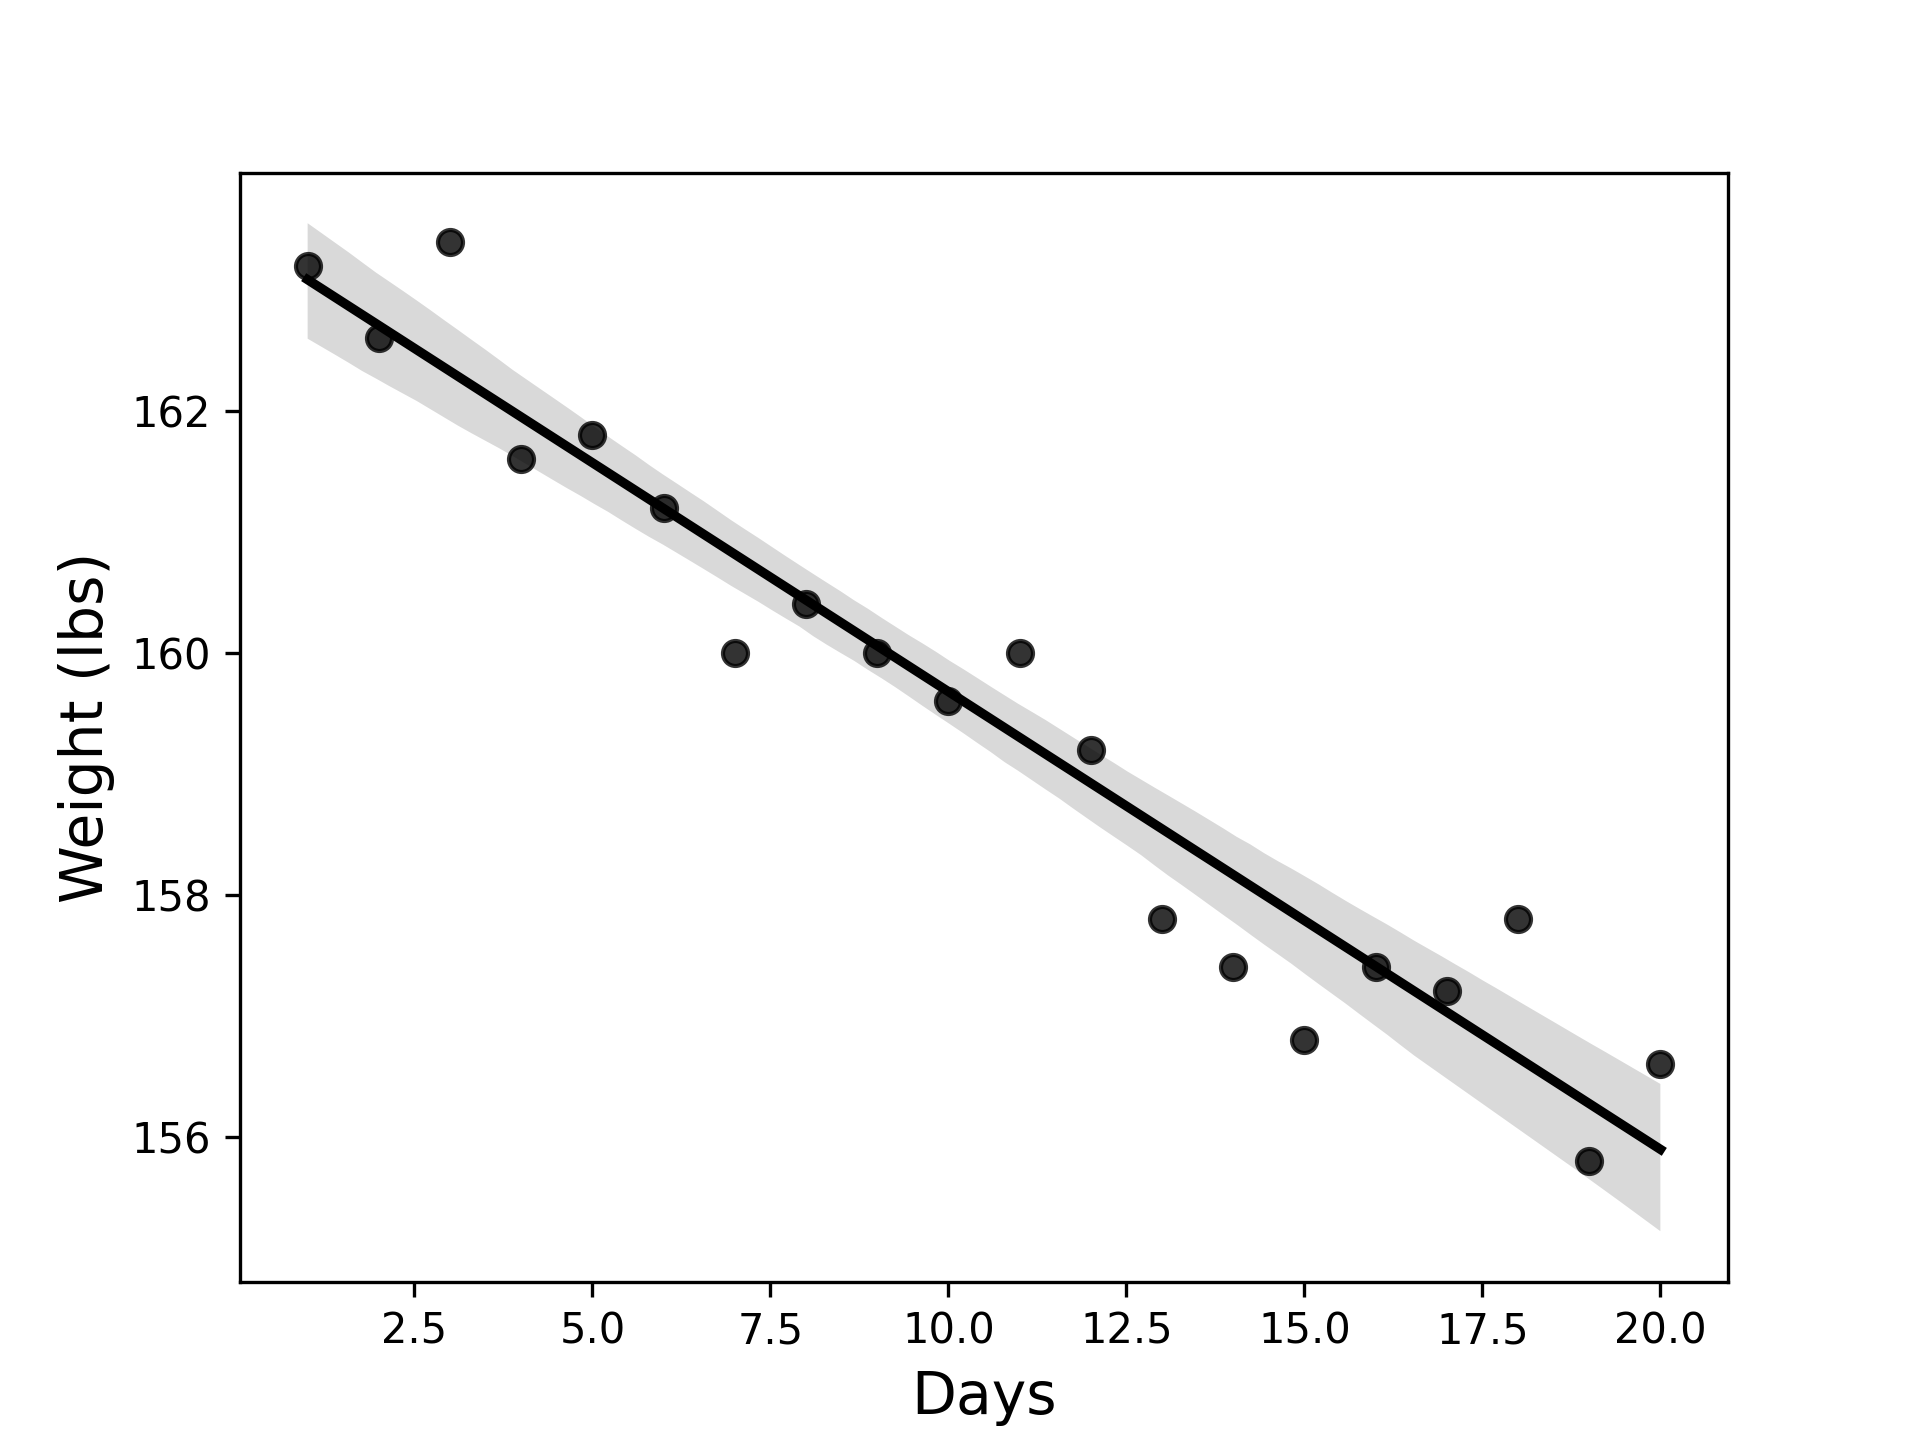
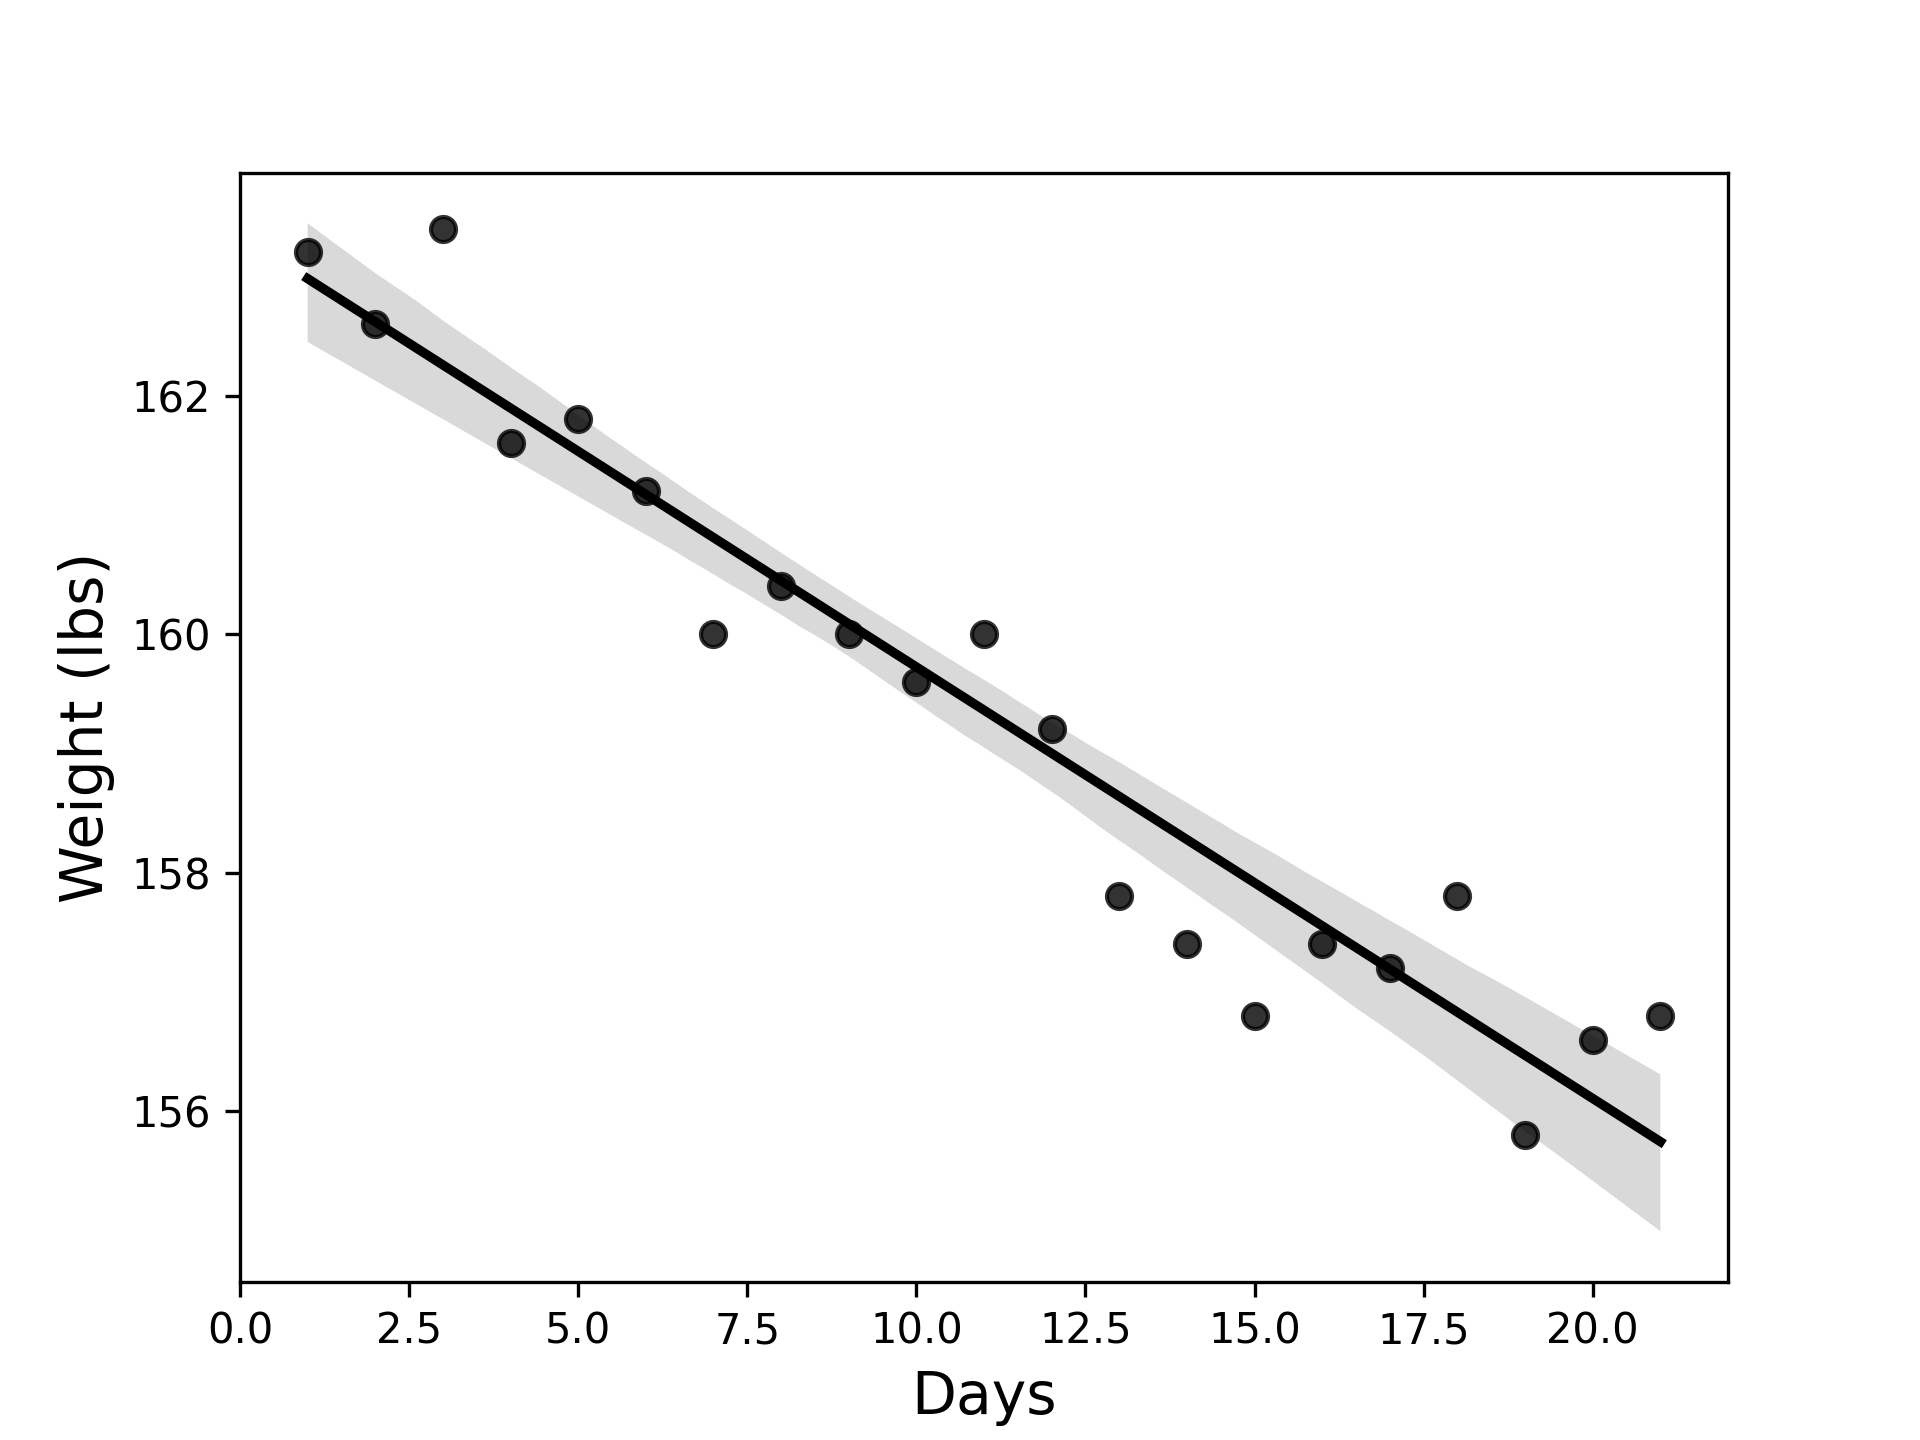
Updated weight.py and weight.png

diff --git a/Weight.py b/Weight.py
@@ -6,9 +6,9 @@ import seaborn as sns
 
 # Creates an array of elapsed days and assigns it to days_elapsed
 days_elapsed = np.array([1, 2, 3 ,4, 5, 6, 7, 8, 9, 10,11,12,13, 14,15,16,17,18,
-                         19, 20]).reshape(-1,1)
+                         19, 20,21]).reshape(-1,1)
 weight = np.array([163.2, 162.6, 163.4, 161.6, 161.8, 161.2, 160.0, 160.4, 160.0, 159.6,160.0,159.2,157.8, 157.4,156.8,157.4,
-                   157.2, 157.8,155.8, 156.6])
+                   157.2, 157.8,155.8, 156.6,156.8])
 
 # Instantiates a LinearRegression model and fits it to the above arrays
 model = sklearn.linear_model.LinearRegression().fit(days_elapsed,weight)
